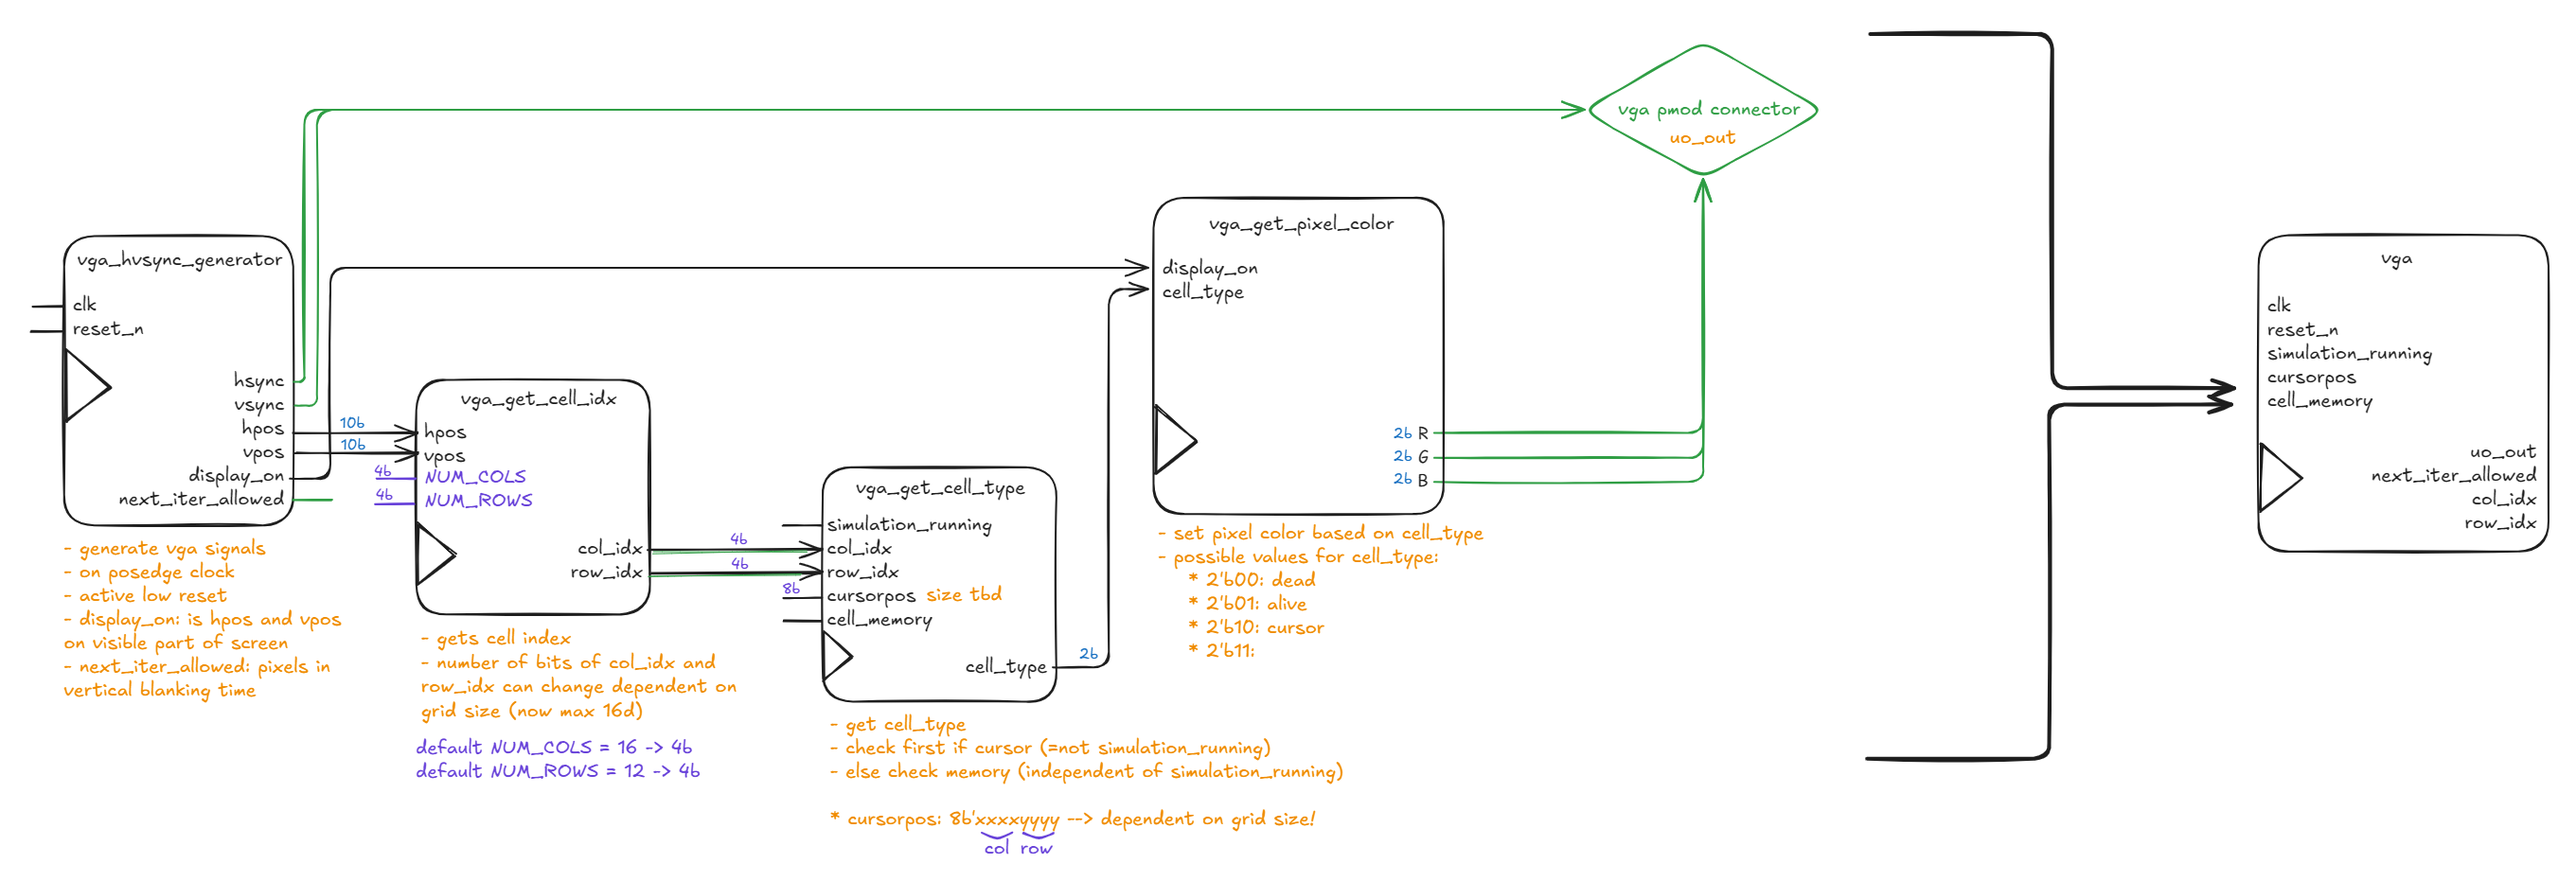
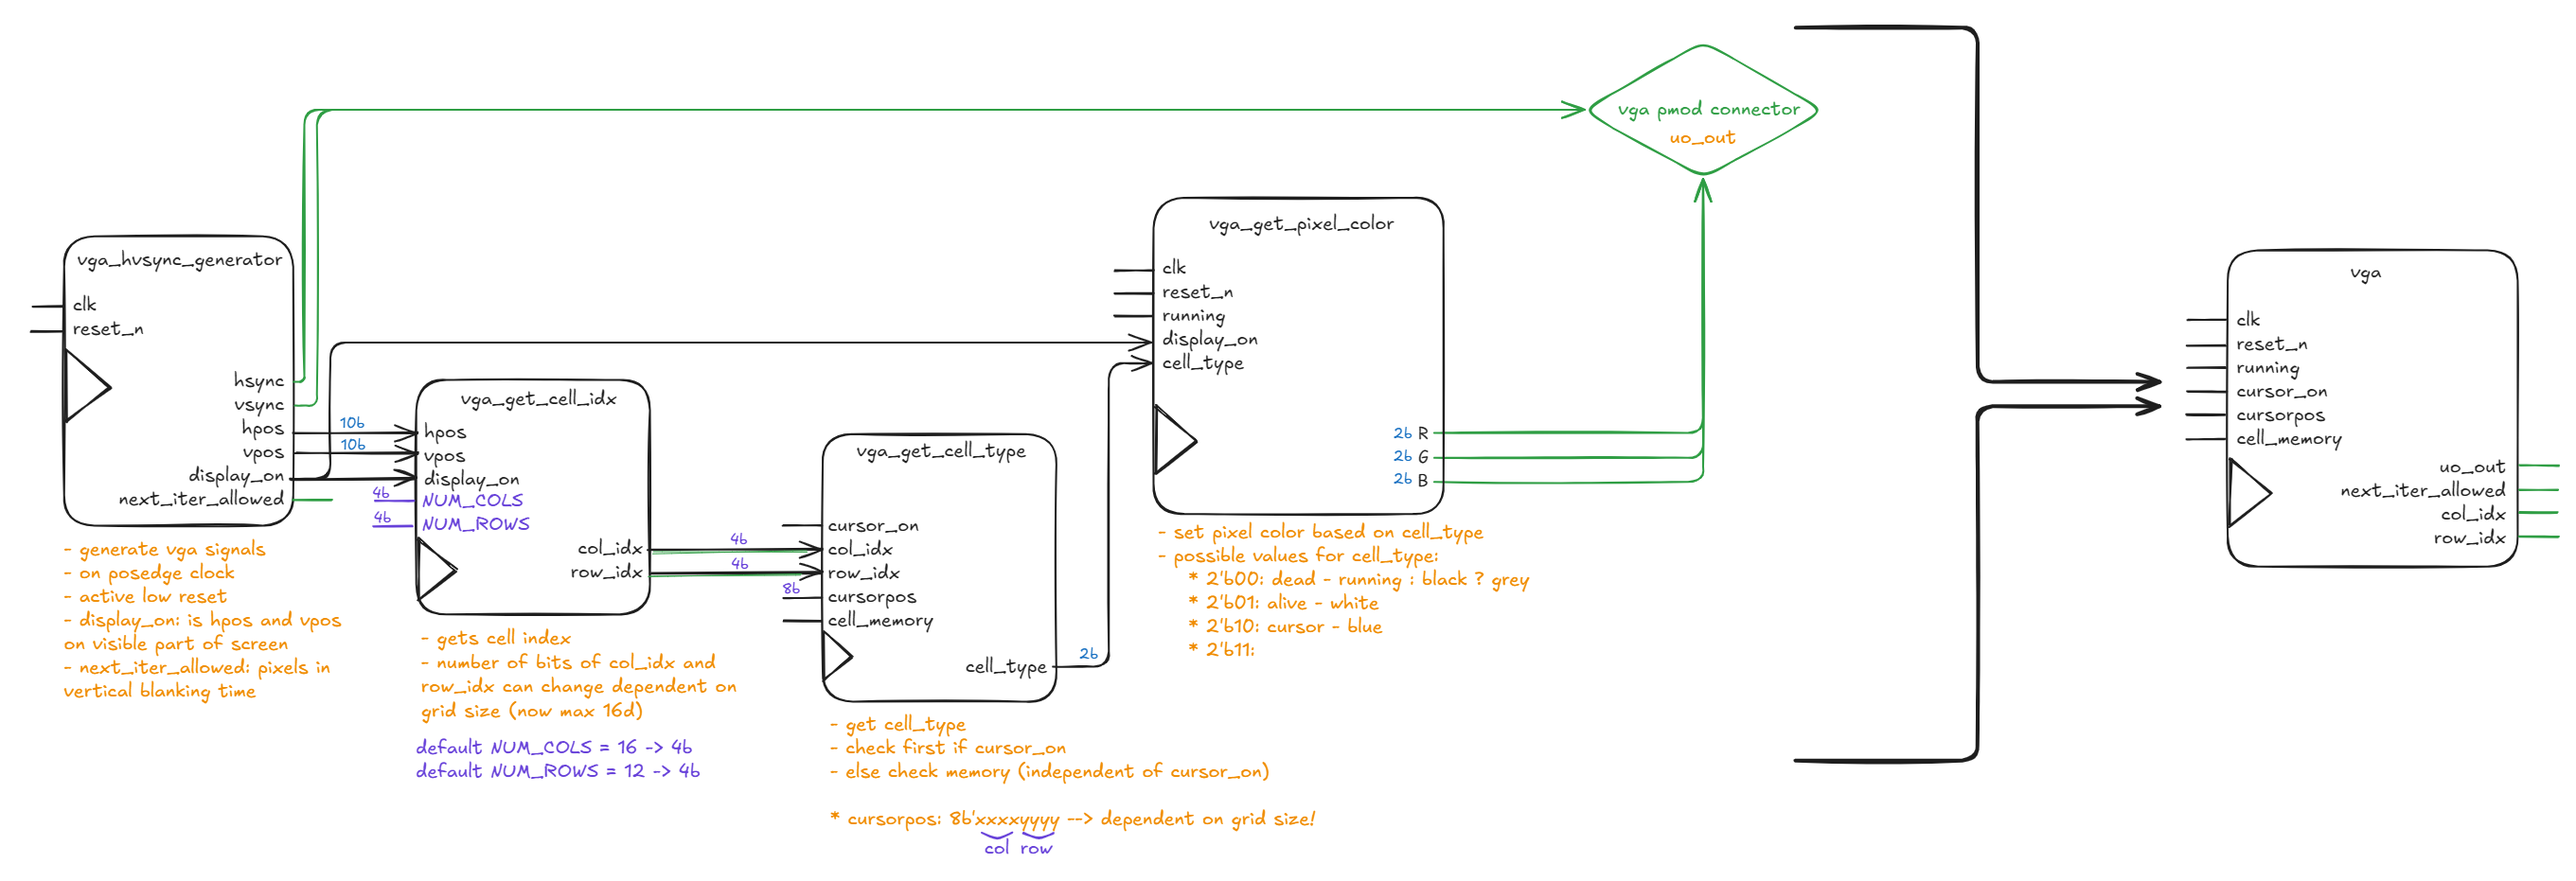
update docs

diff --git a/docs/info.md b/docs/info.md
@@ -9,9 +9,11 @@ You can also include images in this folder and reference them in the markdown. E
 
 # Interactive Conway's Game of Life
 
+Note: links are embedded in the pdf and are in cursive.
+
 ## Description
 
-This project simulates [Conway's Game of Life](https://en.wikipedia.org/wiki/Conway%27s_Game_of_Life). Conway's Game of Life is a classic cellular automaton simulation where cells on a grid live, die, or reproduce based on a small set of rules applied to their neighbors. Originally devised by mathematician John Conway, it demonstrates how complex, evolving patterns can emerge from simple deterministic logic - no player input required once the initial state is set. Perfect for programming into a chip.
+This project simulates _[Conway's Game of Life](https://en.wikipedia.org/wiki/Conway%27s_Game_of_Life)_. Conway's Game of Life is a classic cellular automaton simulation where cells on a grid live, die, or reproduce based on a small set of rules applied to their neighbors. Originally devised by mathematician John Conway, it demonstrates how complex, evolving patterns can emerge from simple deterministic logic - no player input required once the initial state is set. Perfect for programming into a chip.
 
 ## Features
 
@@ -25,7 +27,9 @@ This project simulates [Conway's Game of Life](https://en.wikipedia.org/wiki/Con
 ## How it works
 
 ### Input
-There are four button inputs for moving the cursor up, down, left, and right. These buttons increment or decrement two counters in the row and column directions to determine the correct write address. A set button is used to determine whether a cell is alive or dead. The start/stop button allows the simulation to be started or paused, while the cursor on/off button can be used to show or hide the cursor. All buttons are debounced and synchronized. 
+
+There are four button inputs for moving the cursor up, down, left, and right. These buttons increment or decrement two counters in the row and column directions to determine the correct write address. A set button is used to toggle between a cell that is alive or dead. The start/stop button allows the simulation to be started or paused, while the cursor on/off button can be used to show or hide the cursor. All buttons are debounced and synchronized.
+
 ### Memory
 
 ### Logic
@@ -36,17 +40,17 @@ In an iteration, there are two phases. `L_controller` keeps track of these. Firs
 In the second phase, the next state of the grid is calculated based on `board1` and written to `board0`. There are two variants of this phase, `TORUS` and `BOUNDED`. These refer to the two different ways to handle the edge of the grid. In `BOUNDED`, cels outside the grid are taken to be dead. In `TORUS`, the grid wraps around like a torus, so that for example above the top of the grid is the bottom of the grid.
 Just like in the `COPY` phase, `L_rowcol_counter` will go over every cell. The `L_decider` module takes in the value of the current cell and its neighbours, and outputs `L_new_cel` based on the rules of Conway's Game of Life: a dead cell with three living neighbours comes alive, an alive cell with two or three alive neighbours stays alive, all other cell die or remain dead.
 
-![Logica Architecture](/src/logica/architectuur%20%20logica%20v4.png)
+![Logica Architecture](/docs/architectuur%20%20logica%20v4.png)
 
 ### VGA
 
-[VGA (video graphics array)](https://en.wikipedia.org/wiki/Video_Graphics_Array) is an old technology, which means that it is easy to interface with. There are many different graphics modes, but this project has choosen the most common: [640x480@60Hz](http://microvga.com/vga-timing/640x480@60Hz). This is visually shown with the image below. ![VGA screen visually](/docs/vga_screen_docs.png)
+_[VGA (video graphics array)](https://en.wikipedia.org/wiki/Video_Graphics_Array)_ is an old technology, which means that it is easy to interface with. There are many different graphics modes, but this project has choosen the most common: _[640x480@60Hz](http://microvga.com/vga-timing/640x480@60Hz)_. This is visually shown with the image below. ![VGA screen visually](/docs/vga_screen_docs.png)
 The beam will be scanning the screen from left to right, top to bottom. At the end of each scan line (640 pixels), a syncing pulse must be timed correctly. This is the `hsync` signal in the code. After 480 lines, a vertical sync pulse must be timed correctly. This is the `vsync` signal in the code. These signals are generated by the `vga_hvsync_generator` module. These signals are then used by the other vga modules to show the correct pixels to the screen at the correct time, based on the cell states saved in memory. The architecture for VGA is shown below. ![VGA architecture](/docs/architecture_vga_docs.png)
 The `vga_hvsync_generator` not only generates `hsync` and `vsync` signals, but also keeps track of the horizontal and vertical position on the screen in pixels (`hpos` and `vpos`). These are later used by the `vga_get_cell_idx` module. When the scanning beam is in the viewable screen area (not in the blanking area), the `display_on` wire is set to 1, otherwise it is set to 0. When the scanning beam is in the orange part of the screen (vertical sync pulse, see diagram), `next_iter_allowed` is set to 1 to allow for the logic to generate the next iteration of the simulation.
 
 The `vga_get_cell_idx` module calculates the coordinates of the current cell in the grid, based of the position of the pixel on the screen.
 
-The index that `vga_get_cell_idx` generates, is used in the `vga_get_cell_type` module to determine the cell type. The cell type is either dead, alive or the cursor. The cursor is only shown when the user is editing the grid and thus when the simulation is not running (`simulation_running`). If that is the case, the cursor position will take precendent over the cell type pulled from memory.
+The index that `vga_get_cell_idx` generates, is used in the `vga_get_cell_type` module to determine the cell type. The cell type is either dead, alive or the cursor. The cursor is only shown when the user is editing the grid and thus when the simulation is not running (`simulation_running`). If that is the case, the cursor position will take precendent over the cell type pulled from memory (board0).
 
 Based on the cell type, `vga_get_pixel_color` calculates the correct pixel color.
 
@@ -57,12 +61,17 @@ Based on the cell type, `vga_get_pixel_color` calculates the correct pixel color
 | cursor             | `10`               | 00  | 00  | 11  | blue  |
 | not valid / unused | `11`               | 11  | 00  | 00  | red   |
 
-When testing, sylefeb's [TinyTapeout VGA trace visualizer](https://github.com/sylefeb/tt-vgaviz) proved to be very useful in visualising the VGA output.
+When testing, sylefeb's _[TinyTapeout VGA trace visualizer](https://github.com/sylefeb/tt-vgaviz)_ proved to be very useful in visualising the VGA output from an `.fst` file.
+
+The repository _[cocotb-vga](https://github.com/kul-tt2026/cocotb-vga)_ from kul-tt2026 also proved invaluable when writing test benches.
+
+The VGA playground from Tiny Tapeout was incredible, because it could simulate in seconds what cocotb-vga took minutes. _[Click here for the link](https://vga-playground.com/?repo=https://github.com/kul-tt2026/ttsky-group01-conway&ref=vga-playground)_.
 
 ## How to test
 
-Plug in the VGA Pmod connector and let Conway's Game of Life come to life!
+Plug in the VGA Pmod connector and let Conway's Game of Life come to life! Use the buttons to draw your own board. Press play to start the simulation.
 
 ## External hardware
 
-[Tiny Tapeout VGA Pmod connector](https://tinytapeout.com/specs/pinouts/#vga-output).
+- _[Tiny Tapeout VGA Pmod connector](https://tinytapeout.com/specs/pinouts/#vga-output)_.
+- Buttons
